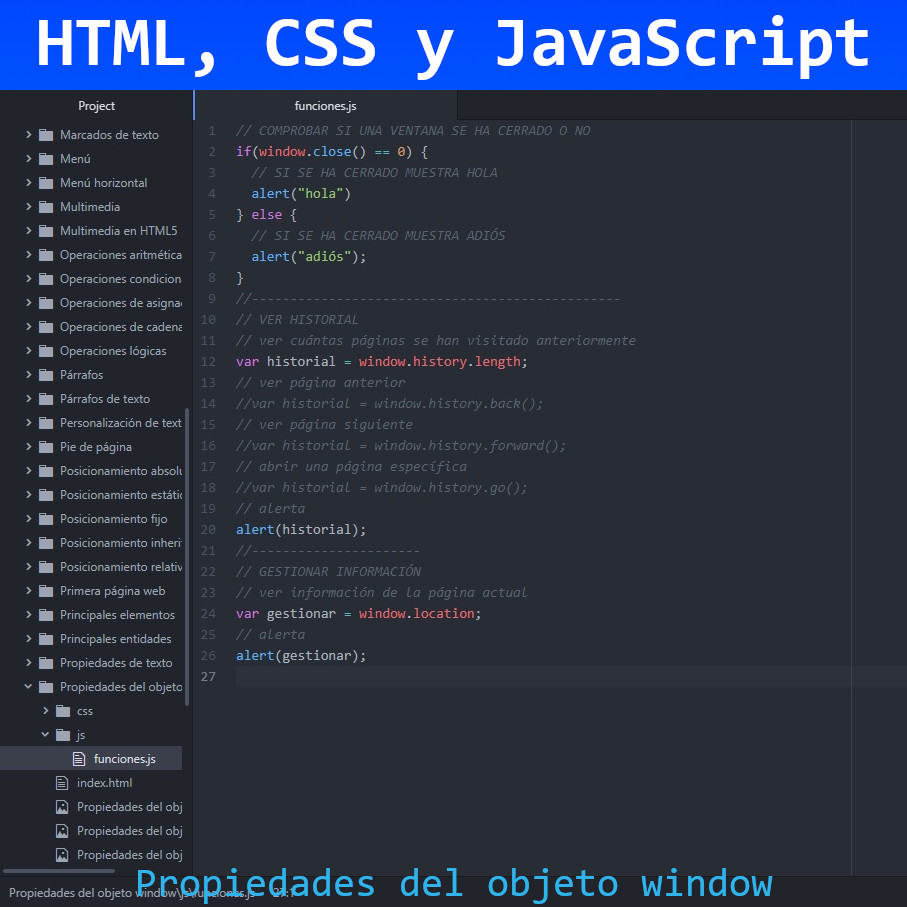
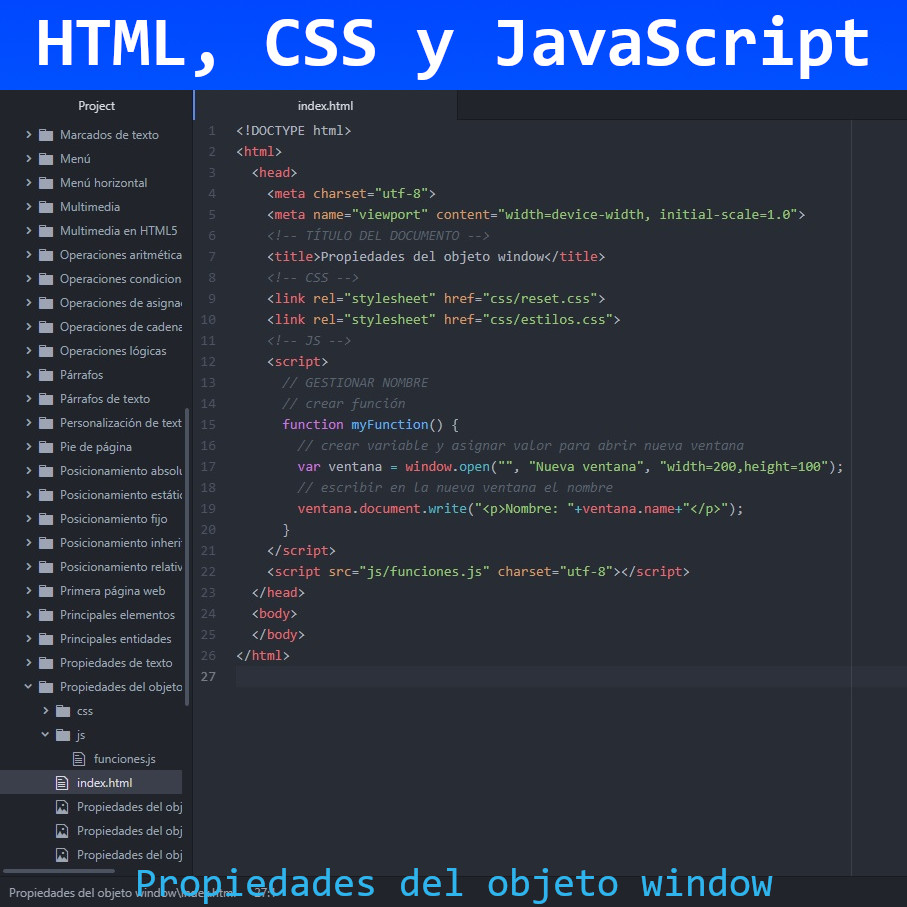
Propiedades del objeto window
Propiedades del objeto window en JavaScript

diff --git a/HTML, CSS y JavaScript/Propiedades del objeto window/index.html b/HTML, CSS y JavaScript/Propiedades del objeto window/index.html
@@ -9,8 +9,20 @@
     <link rel="stylesheet" href="css/reset.css">
     <link rel="stylesheet" href="css/estilos.css">
     <!-- JS -->
-    <script src="js/funciones.js" charset="utf-8"></script>
+    <script>
+      // GESTIONAR NOMBRE
+      // crear función
+      function funcion() {
+        // crear variable y asignar valor para abrir nueva ventana
+        var ventana = window.open("", "Nueva ventana", "width=200,height=100");
+        // escribir en la nueva ventana el nombre
+        ventana.document.write("<p>Nombre: "+ventana.name+"</p>");
+      }
+    </script>
+    <script src="#" charset="utf-8"></script>
   </head>
   <body>
+    <!-- crear botón -->
+    <button onclick="funcion()">Dale clic</button>
   </body>
 </html>
